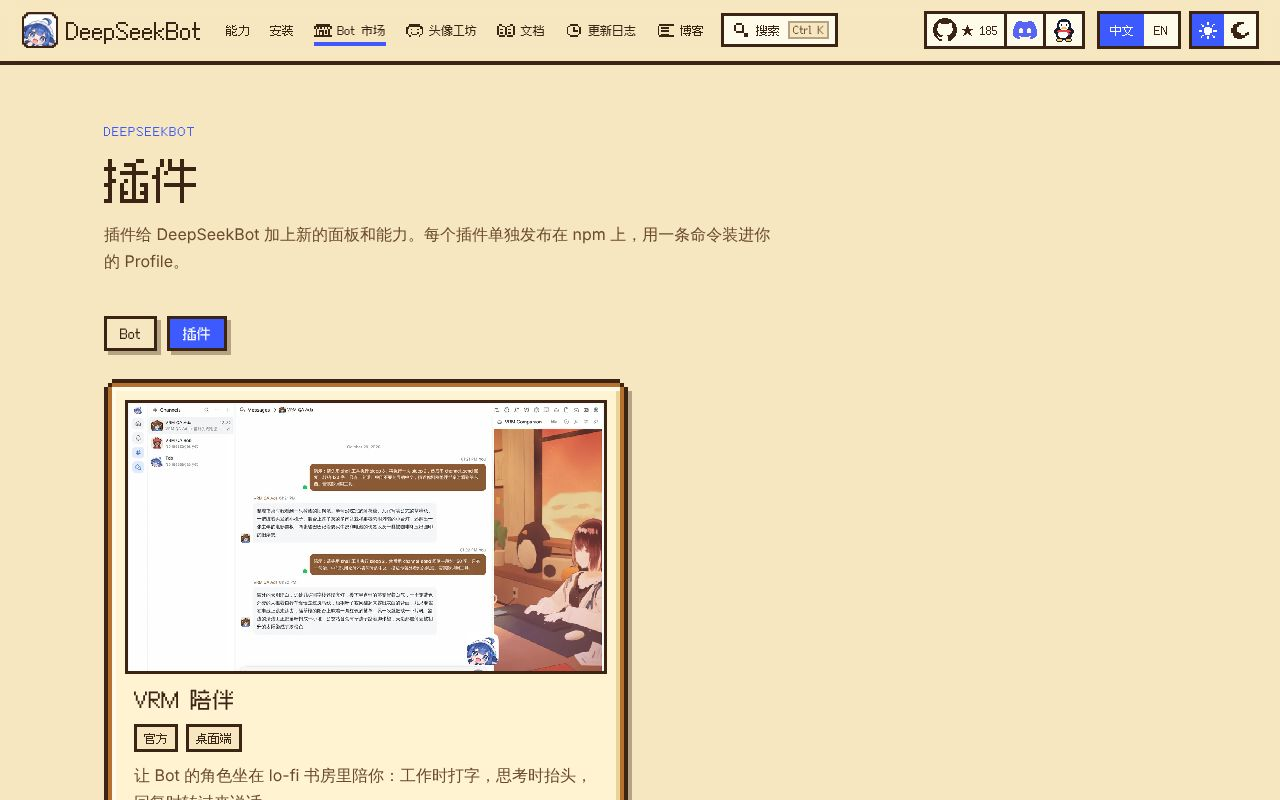
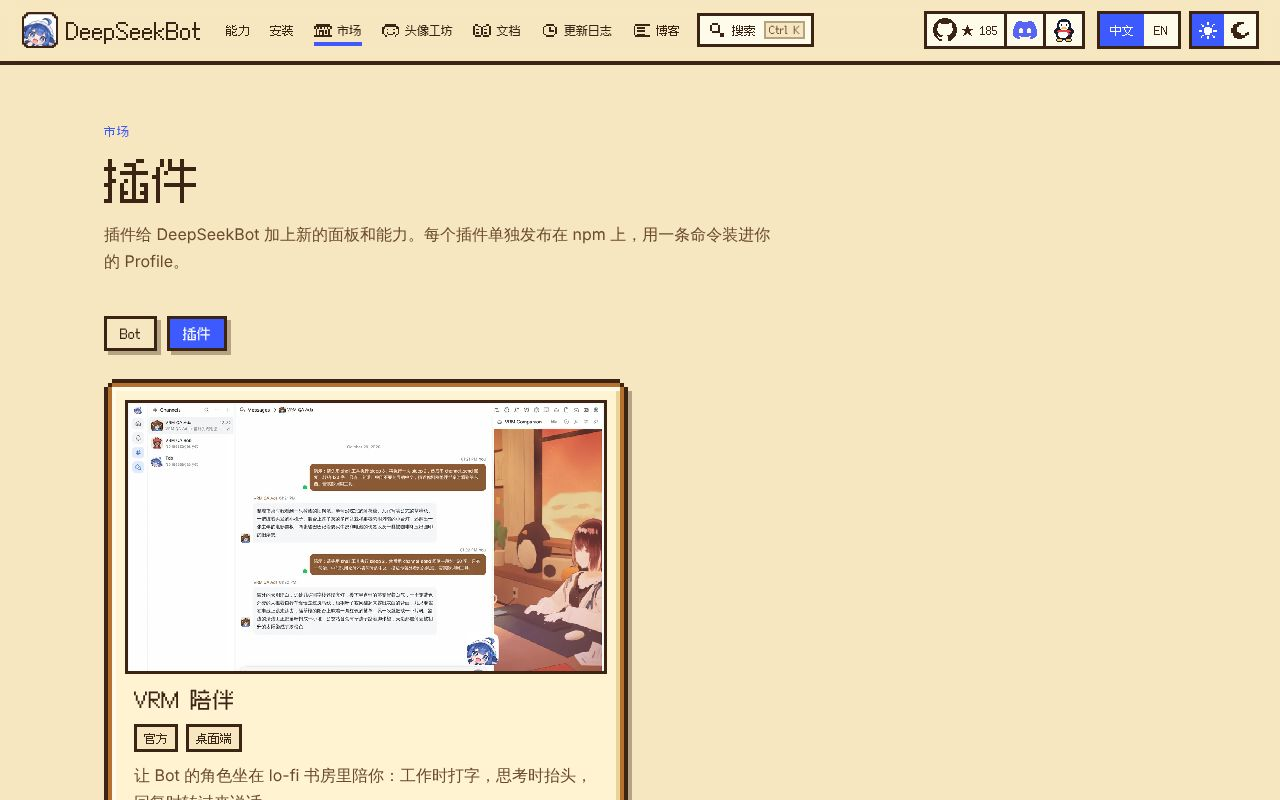
feat: rename the zh nav entry to 市场, holding Bots and plugins
Claude-Session: https://claude.ai/code/session_01W73S1ZGCWG9oqiNuKX1xM7

Changed region(s): [[0.25, 0.0, 0.6562, 0.0625], [0.0625, 0.1562, 0.1562, 0.1875]]

diff --git a/market.html b/market.html
@@ -3,7 +3,7 @@
   <head>
     <meta charset="UTF-8" />
     <meta name="viewport" content="width=device-width, initial-scale=1" />
-    <title>Bot 市场 · DeepSeekBot</title>
+    <title>市场 · DeepSeekBot</title>
     <meta
       name="description"
       content="浏览大家分享在公开 GitHub 仓库里的 Bot：按 Star 或更新时间排序，搜索名称、描述、话题和 README，在 DeepSeekBot 里一键安装成新的 PersonaBot。"
@@ -16,7 +16,7 @@
     <meta property="og:type" content="website" />
     <meta property="og:site_name" content="DeepSeekBot" />
     <meta property="og:url" content="https://deepseekbot.app/market" />
-    <meta property="og:title" content="Bot 市场 · DeepSeekBot" />
+    <meta property="og:title" content="市场 · DeepSeekBot" />
     <meta
       property="og:description"
       content="浏览大家分享在公开 GitHub 仓库里的 Bot：按 Star 或更新时间排序，搜索名称、描述、话题和 README，在 DeepSeekBot 里一键安装成新的 PersonaBot。"
@@ -26,7 +26,7 @@
     <meta property="og:image:width" content="1200" />
     <meta property="og:image:height" content="630" />
     <meta name="twitter:card" content="summary_large_image" />
-    <meta name="twitter:title" content="Bot 市场 · DeepSeekBot" />
+    <meta name="twitter:title" content="市场 · DeepSeekBot" />
     <meta
       name="twitter:description"
       content="浏览大家分享在公开 GitHub 仓库里的 Bot：按 Star 或更新时间排序，搜索名称、描述、话题和 README，在 DeepSeekBot 里一键安装成新的 PersonaBot。"
@@ -55,7 +55,7 @@
   </head>
   <body>
     <div id="root"></div>
-    <noscript>Bot 市场 · DeepSeekBot https://github.com/topics/botharness-bot</noscript>
+    <noscript>市场 · DeepSeekBot https://github.com/topics/botharness-bot</noscript>
     <script type="module" src="/src/market.tsx"></script>
   </body>
 </html>

diff --git a/src/content.ts b/src/content.ts
@@ -256,7 +256,7 @@ const zh: Copy = {
     features: '能力',
     avatar: '头像工坊',
     install: '安装',
-    market: 'Bot 市场',
+    market: '市场',
     docs: '文档',
     changelog: '更新日志',
     blog: '博客',
@@ -478,8 +478,8 @@ const zh: Copy = {
     lead: '换物种、发型、五官和颜色，或者自己画头饰、头发和其他部件，画好直接下载。设计保存在这个浏览器里，首页的小伙伴也会换上它。',
   },
   market: {
-    pageTitle: 'Bot 市场 · DeepSeekBot',
-    kicker: 'Bot 市场',
+    pageTitle: '市场 · DeepSeekBot',
+    kicker: '市场',
     title: '找一个现成的 Bot',
     lead: '这里收录了大家放在公开 GitHub 仓库里的 Bot。在 DeepSeekBot 里安装后，它会成为一个新的 PersonaBot，带着作者写好的 Memory。',
     shelvesLabel: '市场分类',
@@ -506,7 +506,7 @@ const zh: Copy = {
       docs: '分享 Bot 教程：发布前检查、一键复制给 Bot 的提示词、名称和头像设置',
     },
     open: '查看 {name} 详情',
-    back: '← 返回 Bot 市场',
+    back: '← 返回市场',
     github: '在 GitHub 查看',
     stars: '★ {count}',
     updated: '更新于 {date}',

diff --git a/scripts/plugins.ts b/scripts/plugins.ts
@@ -92,7 +92,7 @@ const UI = {
     nav: {
       features: '能力',
       install: '安装',
-      market: 'Bot 市场',
+      market: '市场',
       avatar: '头像工坊',
       changelog: '更新日志',
       blog: '博客',
@@ -251,7 +251,7 @@ function card(lang: Lang, plugin: Plugin) {
 function listMain(lang: Lang, plugins: Plugin[]) {
   const t = UI[lang];
   return `<main id="main" class="section market-page plugins-page">
-      <p class="kicker">DeepSeekBot</p>
+      <p class="kicker">${t.nav.market}</p>
       <h1 class="market-title">${t.title}</h1>
       <p class="section-lead">${t.lead}</p>
       ${shelves(lang, 'plugins')}

diff --git a/scripts/blog.ts b/scripts/blog.ts
@@ -42,7 +42,7 @@ const UI = {
     nav: {
       features: '能力',
       install: '安装',
-      market: 'Bot 市场',
+      market: '市场',
       avatar: '头像工坊',
       changelog: '更新日志',
       blog: '博客',

diff --git a/scripts/changelog.ts b/scripts/changelog.ts
@@ -56,7 +56,7 @@ const UI = {
     nav: {
       features: '能力',
       install: '安装',
-      market: 'Bot 市场',
+      market: '市场',
       avatar: '头像工坊',
       changelog: '更新日志',
       blog: '博客',

diff --git a/scripts/docs.ts b/scripts/docs.ts
@@ -35,7 +35,7 @@ const UI = {
     nav: {
       features: '能力',
       install: '安装',
-      market: 'Bot 市场',
+      market: '市场',
       avatar: '头像工坊',
       changelog: '更新日志',
       blog: '博客',
